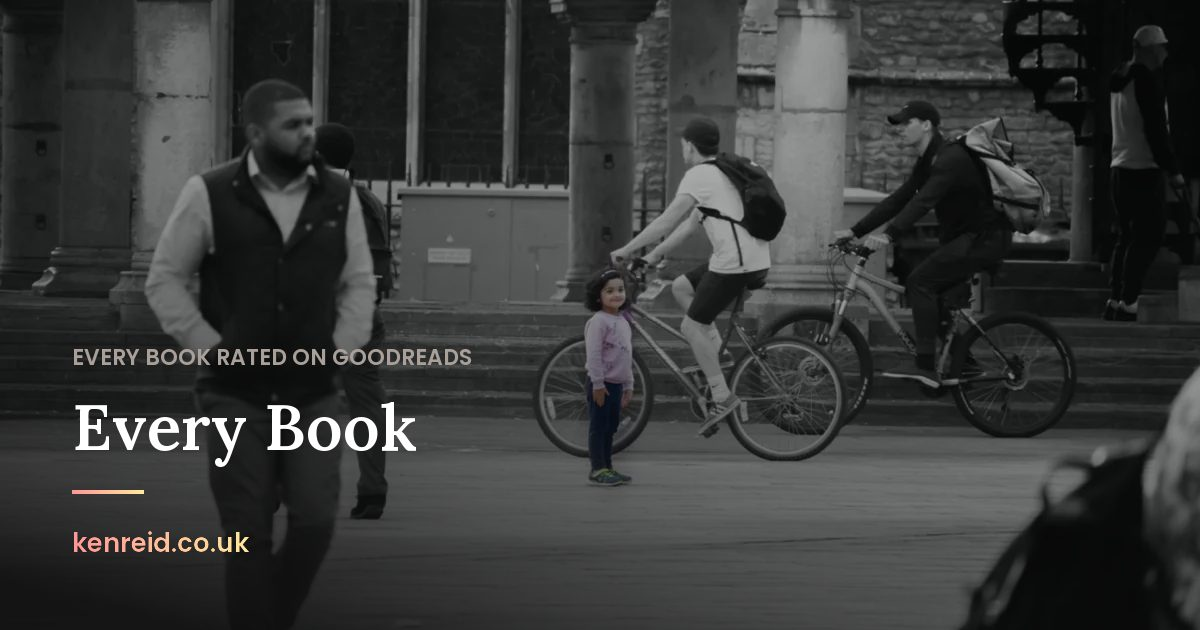
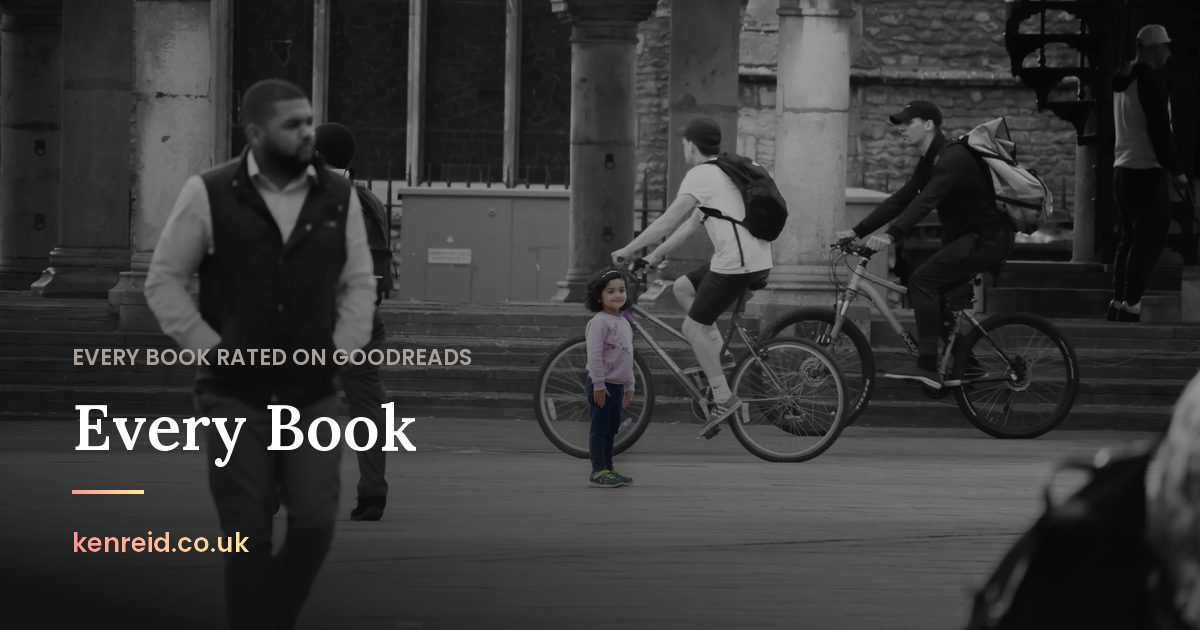
Remove fifteen photographs that repeated another frame
Fifteen frames in the gallery's edit groups were the same edit as their
partner, saved again or cropped by a few pixels, not a different look.
The smaller of each pair comes out of the gallery, the homepage strip,
the photo map and the photo feed, with its thumbnails: 2, 35, 36, 144,
187, 226, 230, 279, 282, 286, 317, 373, 438, 450 and 463. Their groups
go with them, leaving the fifteen that hold real re-edits.

The posts and pages that showed one of them now show the frame kept in
its place (455, 335, 471, 454), which has a new full-size rendition,
and the Every Book banner and share image follow.

diff --git a/blog/how-to-write-a-blog.html b/blog/how-to-write-a-blog.html
@@ -214,7 +214,7 @@
         <p>On topics: I have no formal rules about what I cover. I write about books, data science, where I grew up, audiobooks, AI ethics, and anything else I have accumulated enough thought about to fill a post. The only filter I apply is one I call the four-audience test, borrowed from the idea of writing something you would be comfortable having read by a friend, a foe, a family member, and your boss. If a post fails that test, it either needs to be rewritten or left in the drafts folder. That is not a rule about being inoffensive: it is a rule about being clear-eyed enough about your own motives that you would not regret the post existing in a world where all four of those people read it on the same day.</p>
 
         <figure>
-          <img src="../img/photography/thumb/230.webp" alt="Small girl in pink standing amid cyclists crossing an Italian piazza, selective colour" loading="lazy" width="400" height="266" srcset="../img/photography/thumb/230.webp 400w, ../img/photography/thumb/230@2x.webp 800w, ../img/photography/hero/230.webp 1200w" sizes="(min-width: 800px) 760px, 100vw">
+          <img src="../img/photography/thumb/455.webp" alt="Small girl in pink standing amid cyclists crossing an Italian piazza, selective colour" loading="lazy" width="400" height="266" srcset="../img/photography/thumb/455.webp 400w, ../img/photography/thumb/455@2x.webp 800w, ../img/photography/hero/455.webp 1893w" sizes="(min-width: 800px) 760px, 100vw">
           <figcaption class="figure-note">&copy; Ken Reid. The discipline you build writing for a small audience is the same discipline that makes writing for a large one possible.</figcaption>
         </figure>
 
@@ -233,7 +233,7 @@
         <p><strong>On structure and components:</strong> I keep a template reference document for the reusable patterns I have built into this blog, covering things like photo captions, expandable FAQ sections, timelines, and glossary boxes. If you are building your own static site, a similar document saves considerable time when writing the tenth post.</p>
 
         <figure>
-          <img src="../img/photography/thumb/282.webp" alt="Orange-tip butterfly perched on a pink bluebell flower" loading="lazy" width="400" height="266" srcset="../img/photography/thumb/282.webp 400w, ../img/photography/thumb/282@2x.webp 800w, ../img/photography/hero/282.webp 1200w" sizes="(min-width: 800px) 760px, 100vw">
+          <img src="../img/photography/thumb/335.webp" alt="Orange-tip butterfly perched on a pink bluebell flower" loading="lazy" width="400" height="266" srcset="../img/photography/thumb/335.webp 400w, ../img/photography/thumb/335@2x.webp 800w, ../img/photography/hero/335.webp 1920w" sizes="(min-width: 800px) 760px, 100vw">
           <figcaption class="figure-note">&copy; Ken Reid. Publishing a post feels like this: you press send, and the world keeps turning without noticing.</figcaption>
         </figure>
 

diff --git a/blog/photographing-strangers.html b/blog/photographing-strangers.html
@@ -235,7 +235,7 @@
 
  <figure class="kr-figure--solo">
    <div class="photo-grid">
-     <img src="../img/photography/thumb/35.webp" alt="A lone figure standing at the end of a floating jetty on dark water, wooded hills behind, black and white" loading="lazy" width="400" height="196" srcset="../img/photography/thumb/35.webp 400w, ../img/photography/thumb/35@2x.webp 800w, ../img/photography/hero/35.webp 1200w" sizes="(min-width: 800px) 373px, (min-width: 576px) 50vw, 100vw">
+     <img src="../img/photography/thumb/471.webp" alt="A lone figure standing at the end of a floating jetty on dark water, wooded hills behind, black and white" loading="lazy" width="400" height="194" srcset="../img/photography/thumb/471.webp 400w, ../img/photography/thumb/471@2x.webp 800w, ../img/photography/hero/471.webp 1894w" sizes="(min-width: 800px) 373px, (min-width: 576px) 50vw, 100vw">
      <img src="../img/photography/thumb/46.webp" alt="A woman with a large shoulder bag walking across a sunlit square in front of an arcaded stone building" loading="lazy" width="400" height="266" srcset="../img/photography/thumb/46.webp 400w, ../img/photography/thumb/46@2x.webp 800w, ../img/photography/hero/46.webp 1200w" sizes="(min-width: 800px) 373px, (min-width: 576px) 50vw, 100vw">
      <img src="../img/photography/thumb/64.webp" alt="Two men crossing a wide pedestrian street, one striding away and one in a hooded top with a backpack" loading="lazy" width="400" height="266" srcset="../img/photography/thumb/64.webp 400w, ../img/photography/thumb/64@2x.webp 800w, ../img/photography/hero/64.webp 1200w" sizes="(min-width: 800px) 373px, (min-width: 576px) 50vw, 100vw">
      <img src="../img/photography/thumb/81.webp" alt="Two wrestlers grappling in a sand pit at an outdoor event, spectators lining the edge" loading="lazy" width="400" height="266" srcset="../img/photography/thumb/81.webp 400w, ../img/photography/thumb/81@2x.webp 800w, ../img/photography/hero/81.webp 1200w" sizes="(min-width: 800px) 373px, (min-width: 576px) 50vw, 100vw">

diff --git a/blog/what-we-leave-behind.html b/blog/what-we-leave-behind.html
@@ -257,7 +257,7 @@
         <p>The love that turns into grief can thankfully be turned back into love. We can share the love for our last dog to the next one, or in sharing advice on how your friend can make sure their dog is never fed poor quality food. After death, and excluding geological findings, memetic ideas and individual memories, the last thing that is truly left is a shadow. The neuroscientist David Eagleman describes three deaths: the first when the body stops working, the second when the body is buried, and the third "that moment, sometime in the future, when your name is spoken for the last time". That third death is the one we hold at bay, for as long as we can, simply by remembering. In our memories, people and animals, places and ideas live on. We can imagine the way they were, how they made us feel, how they would react to something and the littlest, most insignificant of things, like how they would walk, and their favourite foods. We are truly the most important bastion of what is left of those who have left. They live in our minds, reduced, and nowhere near the same, but much of the essence remains. </p>
 
         <figure>
-          <img src="../img/photography/thumb/286.webp" alt="Weathered stone cross grave marker leaning amid dense green foliage" loading="lazy" width="400" height="266" srcset="../img/photography/thumb/286.webp 400w, ../img/photography/thumb/286@2x.webp 800w, ../img/photography/hero/286.webp 1200w" sizes="(min-width: 800px) 760px, 100vw">
+          <img src="../img/photography/thumb/454.webp" alt="Weathered stone cross grave marker leaning amid dense green foliage" loading="lazy" width="400" height="266" srcset="../img/photography/thumb/454.webp 400w, ../img/photography/thumb/454@2x.webp 800w, ../img/photography/hero/454.webp 1893w" sizes="(min-width: 800px) 760px, 100vw">
           <figcaption class="figure-note"><span class="figure-copyright">&copy; Ken Reid. All rights reserved.</span></figcaption>
         </figure>
 

diff --git a/blog/individualization-of-responsibility.html b/blog/individualization-of-responsibility.html
@@ -264,7 +264,7 @@
 
         <figure>
           <a href="https://github.com/DrKenReid/DrKenReid.github.io/releases/download/photos-v1/230.png" class="img-lightbox portfolio-img" style="cursor: zoom-in;">
-            <img src="../img/photography/thumb/230.webp" alt="Small girl in pink standing amid cyclists crossing an Italian piazza, selective colour" loading="lazy" width="400" height="266" srcset="../img/photography/thumb/230.webp 400w, ../img/photography/thumb/230@2x.webp 800w, ../img/photography/hero/230.webp 1200w" sizes="(min-width: 800px) 760px, 100vw">
+            <img src="../img/photography/thumb/455.webp" alt="Small girl in pink standing amid cyclists crossing an Italian piazza, selective colour" loading="lazy" width="400" height="266" srcset="../img/photography/thumb/455.webp 400w, ../img/photography/thumb/455@2x.webp 800w, ../img/photography/hero/455.webp 1893w" sizes="(min-width: 800px) 760px, 100vw">
           </a>
           <figcaption class="figure-note">
             <span class="figure-copyright">&copy; Ken Reid. All rights reserved.</span>

diff --git a/books.html b/books.html
@@ -27,7 +27,7 @@
   <meta name="theme-color" content="#1a1a1a">
   <link rel="manifest" href="/manifest.json">
   <link rel="canonical" href="https://www.kenreid.co.uk/books.html">
-  <link rel="preload" as="image" href="/img/photography/hero/230.webp" fetchpriority="high">
+  <link rel="preload" as="image" href="/img/photography/hero/455.webp" fetchpriority="high">
   <link rel="stylesheet" href="/style.min.css?v=20260923a">
   <!-- bookshelf.js first: it has the title helper and the typographic
        covers the wall falls back to. -->
@@ -52,7 +52,7 @@
   <main id="main-content">
 
   <!-- Page opener (style.css §06, "Page opener") -->
-  <section class="breadcrumb-area bg-img bg-overlay jarallax" style="background-image: url(/img/photography/hero/230.webp);">
+  <section class="breadcrumb-area bg-img bg-overlay jarallax" style="background-image: url(/img/photography/hero/455.webp);">
     <div class="container">
       <div class="breadcrumb-content">
         <nav aria-label="breadcrumb"><ol class="breadcrumb">

diff --git a/.github/scripts/generate_og_images.py b/.github/scripts/generate_og_images.py
@@ -80,7 +80,7 @@ PAGES: dict[str, tuple[str, tuple[str, ...], str]] = {
     "literature": ("Literature", ("Reading now", "The shelf", "Reviews"),
                    "img/photography/hero/207.webp"),
     "books": ("Every Book", ("Every book rated on Goodreads",),
-              "img/photography/hero/230.webp"),
+              "img/photography/hero/455.webp"),
     "music": ("Music", ("Last.fm", "Playlists", "Fingerstyle guitar"),
               "img/photography/hero/13.webp"),
     "map": ("Photo Map", ("Where the photographs were taken",),
